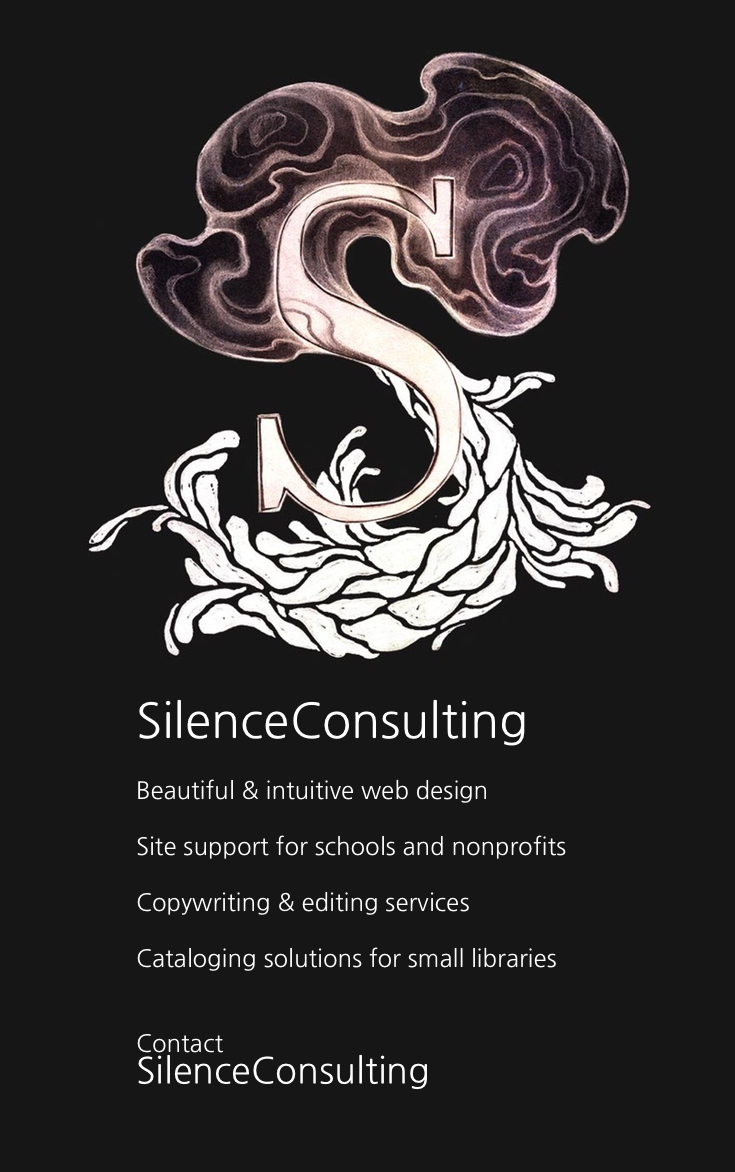
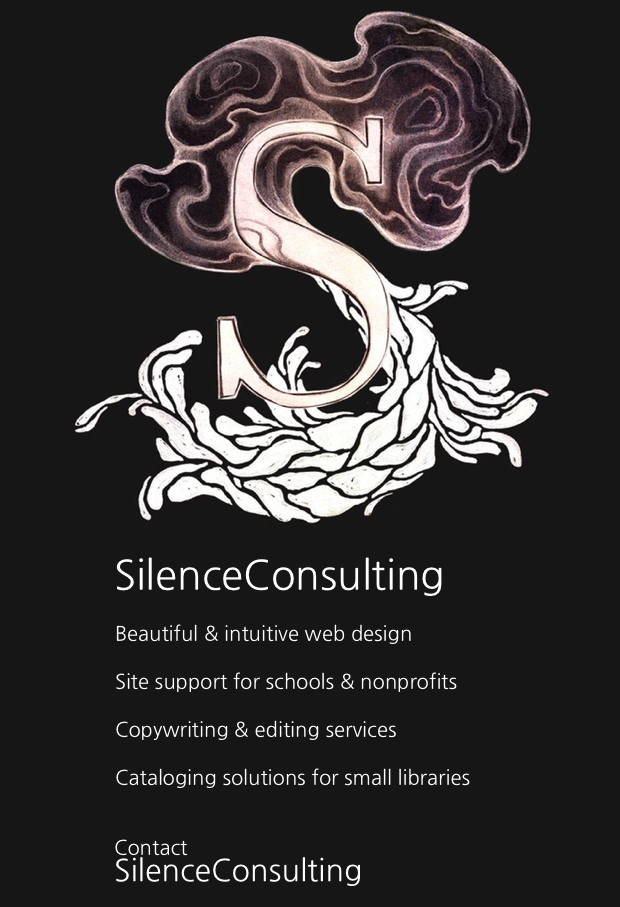
first try

Changed region(s): [[0.1226, 0.0, 0.8887, 0.9879]]

diff --git a/index.html b/index.html
@@ -12,9 +12,19 @@
 
         <!-- Place favicon.ico and apple-touch-icon.png in the root directory -->
 
-        <link rel="stylesheet" href="css/normalize.css">
+	<link rel="stylesheet" href="css/normalize.css">
         <link rel="stylesheet" href="css/main.css">
         <script src="js/vendor/modernizr-2.6.2.min.js"></script>
+	<style>
+		body { background-color: #161616; }	
+		@media all and (min-width: 900px) {	
+			#main { width: 900px; margin-left: auto; margin-right: auto; }
+			#ban { width: 100%;  }
+		}	
+		@media all and (max-width: 899px) {
+			#main { width: 200px; }
+		}
+	</style>
     </head>
     <body>
         <!--[if lt IE 7]>
@@ -22,11 +32,30 @@
         <![endif]-->
 
         <!-- Add your site or application content here -->
-       <img src="img/scl.png" /> 
+      	<div id="main">
+		<img id="ban" /> 
+	</div>
 
         <script src="//ajax.googleapis.com/ajax/libs/jquery/1.10.2/jquery.min.js"></script>
         <script>window.jQuery || document.write('<script src="js/vendor/jquery-1.10.2.min.js"><\/script>')</script>
         <script src="js/plugins.js"></script>
         <script src="js/main.js"></script>
+	<script>
+		
+		function sizeBan() {
+			if ($('body').innerWidth() > 899) {
+				$('#ban').attr('src', 'img/scl.png');
+			} else {		
+				$('#ban').attr('src', 'img/scp.png'); 
+			}
+		}
+
+		$('document').ready(function() { 
+			sizeBan();	
+			$(window).resize(function() {
+				sizeBan();
+			});	
+		} );
+	</script>
     </body>
 </html>
